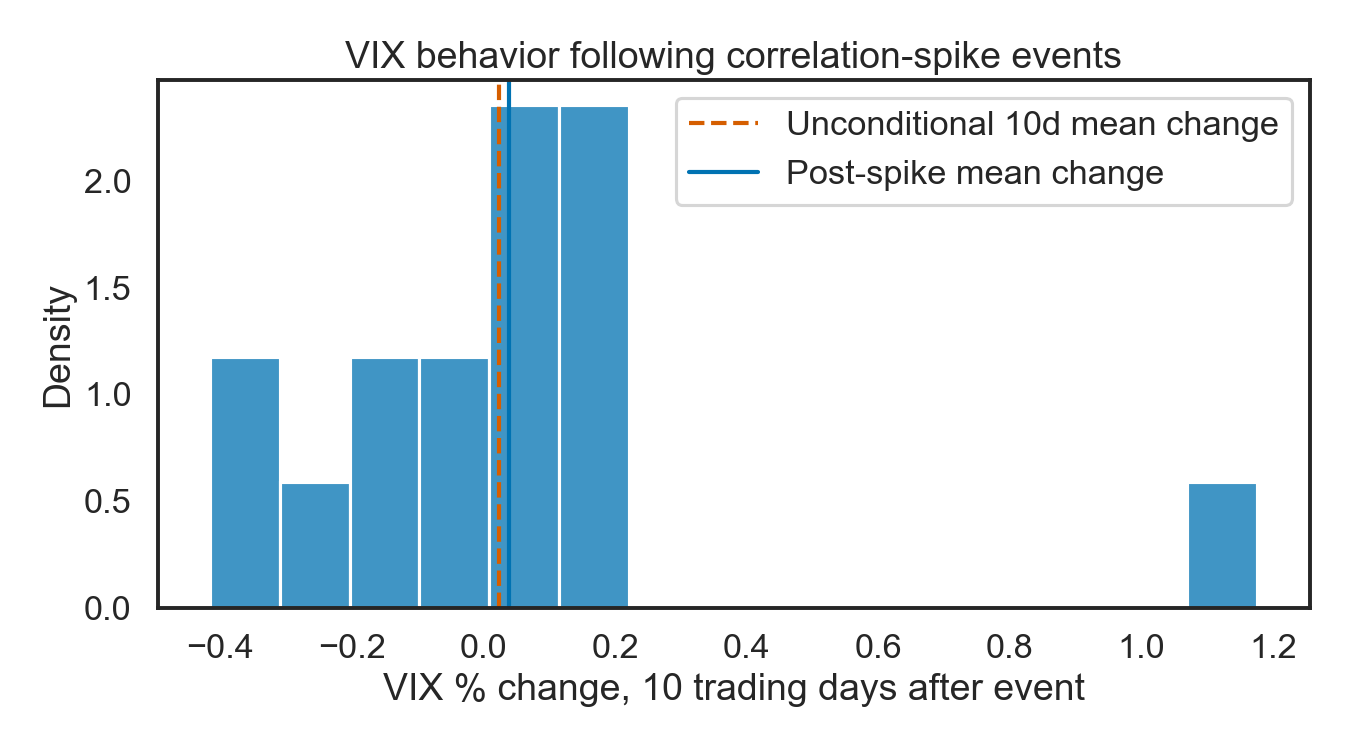
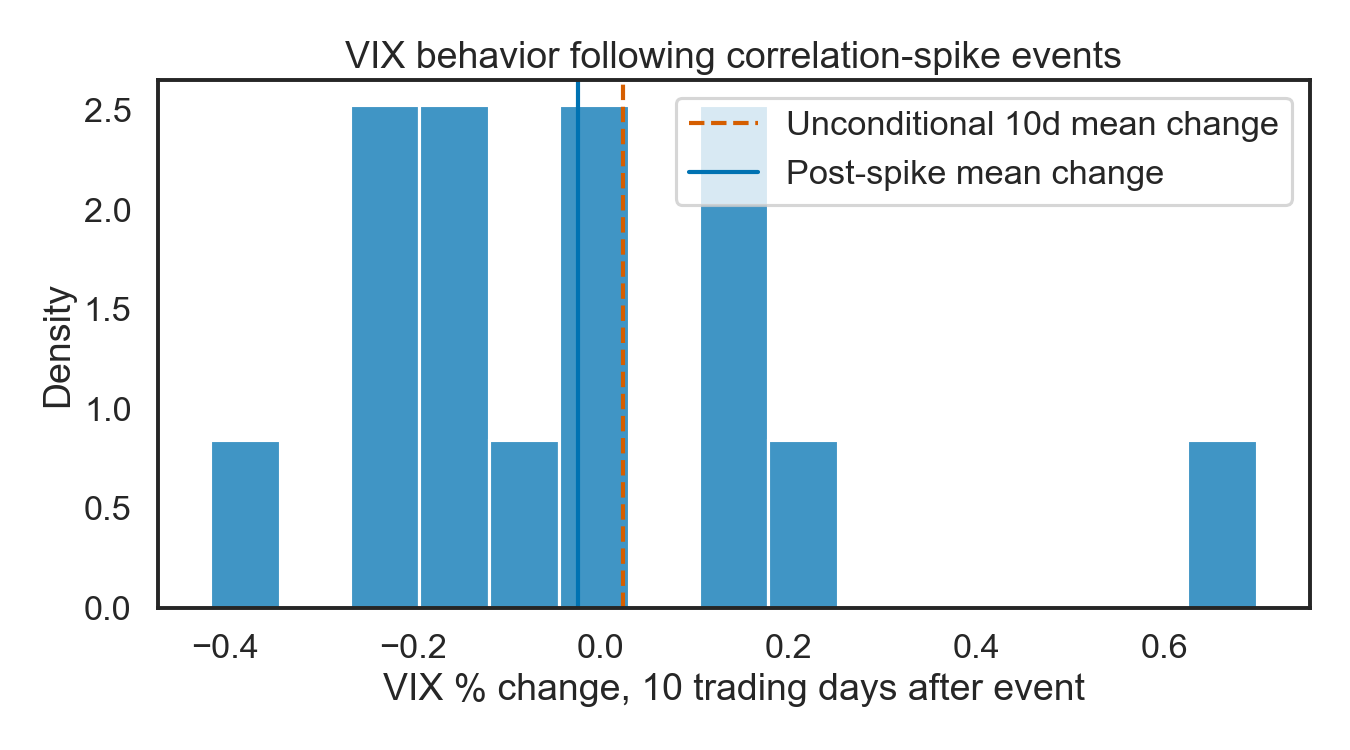
Refresh charts and results for the new one-per-sector basket
Re-ran the pipeline on the redesigned basket (see previous commit) and
updated every number and chart in the README to match. The headline
finding changed in an interesting way: under the old basket the event
study leaned (insignificantly) toward supporting the hypothesis; under
this basket it flips to leaning (still insignificantly) the other way.
Documented that instability directly in the Honest Takeaway rather than
picking whichever run looked better.

diff --git a/README.md b/README.md
@@ -57,11 +57,16 @@ and less useful result.
 
 ## Data
 
-- **Basket** — 10 large-cap U.S. stocks spread across 5 sectors, so the
-  basket's average correlation reflects market-wide co-movement rather than
-  one sector's story: `AAPL`/`MSFT` (Technology), `JPM`/`BAC` (Financials),
-  `XOM`/`CVX` (Energy), `JNJ`/`PG` (Healthcare/Staples), `HD`/`CAT`
-  (Discretionary/Industrials).
+- **Basket** — 10 large-cap U.S. stocks, **one per sector, no repeats**:
+  `AAPL` (Technology), `JPM` (Financials), `XOM` (Energy), `JNJ`
+  (Healthcare), `PG` (Consumer Staples), `HD` (Consumer Discretionary),
+  `CAT` (Industrials), `LIN` (Materials), `VZ` (Communication Services),
+  `NEE` (Utilities). Every sector appears exactly once on purpose — an
+  earlier version of this basket had two stocks in each of three sectors,
+  which meant part of the "average correlation" number could just be
+  ordinary sector news (e.g. two tech stocks reacting to the same rate
+  headline) rather than genuine market-wide co-movement. See
+  [`src/data.py`](src/data.py) for the reasoning in full.
 - **VIX** — `^VIX`, the CBOE Volatility Index.
 - **Source** — [yfinance](https://github.com/ranaroussi/yfinance), daily
   split/dividend-adjusted closes, 2015-01-01 to present.
@@ -109,7 +114,7 @@ against an independent source of truth rather than just read back:
 - **`average_pairwise_correlation`** — recomputed with a separate,
   brute-force implementation (a plain Python loop over each 20-day window,
   no pandas vectorization) and compared to the pipeline's output across all
-  2,902 overlapping trading days. Max difference: `3.1e-15`, i.e.
+  2,906 overlapping trading days. Max difference: `8.2e-15`, i.e.
   floating-point noise, not a discrepancy.
 - **`cross_correlation`'s lag sign convention** — tested on synthetic data
   built so `x` was constructed to lead `y` by a known 5 trading days. The
@@ -125,10 +130,11 @@ against an independent source of truth rather than just read back:
   (p=0.014).
 - **The downloaded data itself** — spot-checked against publicly recorded
   VIX closes on well-known dates (Aug 24 2015, Feb 5 2018, Mar 16 2020, Aug
-  5 2024, Apr 8 2025); every value matched exactly. The full-period
-  correlation heatmap was also checked against sector logic (e.g. JPM/BAC
-  and XOM/CVX pairs should — and do — show the highest correlation of the
-  basket).
+  5 2024, Apr 8 2025); every value matched exactly.
+- **The one-per-sector redesign worked as intended** — with no two stocks
+  sharing a sector, the full-period heatmap now has no artificially
+  dominant pair: the highest is JPM/CAT at 0.58, well below the 0.88 a
+  same-sector pair (JPM/BAC) hit in the earlier version of this basket.
 
 ## Open items
 
@@ -165,7 +171,7 @@ together, most clearly during the March 2020 and 2022 stress periods:
 
 ![Average correlation vs VIX](output/avg_corr_vs_vix.png)
 
-**Cross-correlation** peaked at **lag −3** (correlation 0.48), meaning in
+**Cross-correlation** peaked at **lag −4** (correlation 0.56), meaning in
 this sample the VIX moved slightly *ahead of* average correlation rather
 than behind it — the opposite of the hypothesis's direction, though only by
 a few days:
@@ -174,28 +180,33 @@ a few days:
 
 **Granger causality** found no lag at which average correlation
 significantly predicted the VIX beyond the VIX's own history (smallest
-p-value 0.51, far above conventional significance thresholds).
+p-value 0.42, far above conventional significance thresholds).
 
 **Event study**: 16 correlation-spike events were identified over the
-sample. The VIX's mean 10-day forward change after those events (+3.9%) was
-higher than its unconditional 10-day change (+2.3%), in the hypothesized
-direction, but the difference was not statistically significant (t=0.18,
-p=0.86) — unsurprising with only 16 events.
+sample. The VIX's mean 10-day forward change after those events (**−2.4%**)
+was actually *lower* than its unconditional 10-day change (+2.3%) — the
+opposite of the hypothesized direction this time — and, as before, not
+statistically significant (t=−0.72, p=0.48).
 
 ![Event study](output/event_study.png)
 
-**Full-period correlation heatmap**, as a sanity check — sector pairs like
-JPM/BAC (0.88) and XOM/CVX (0.84) show the highest correlation, as expected:
+**Full-period correlation heatmap**, as a sanity check — with no two stocks
+sharing a sector, no single pair dominates; the highest is JPM/CAT at 0.58,
+consistent with genuine cross-sector co-movement rather than one pair of
+similar businesses inflating the picture:
 
 ![Correlation heatmap](output/heatmap_full_period.png)
 
 ### Honest takeaway
 
-This basket/period does **not** provide strong evidence that correlation
-spikes cleanly *lead* VIX spikes — the two look more contemporaneous, with
-VIX moving marginally first if anything, and 16 spike events over ~10 years
-is a small sample to begin with. See [Open items](#open-items) above for
-the specific methodological gaps that could be shifting this result, and
+This basket/period does **not** provide evidence that correlation spikes
+lead VIX spikes — under the original basket the event study leaned
+(insignificantly) in the hypothesized direction, and under this
+one-per-sector basket it flipped to leaning (still insignificantly) the
+*other* way. That instability between two reasonable basket choices is
+itself informative: whatever relationship exists here is not strong or
+robust enough to survive a change in which 10 stocks you pick. See [Open
+items](#open-items) above for the remaining methodological gaps, and
 [Verification](#verification) for what's already been checked and is *not*
 the explanation.
 
